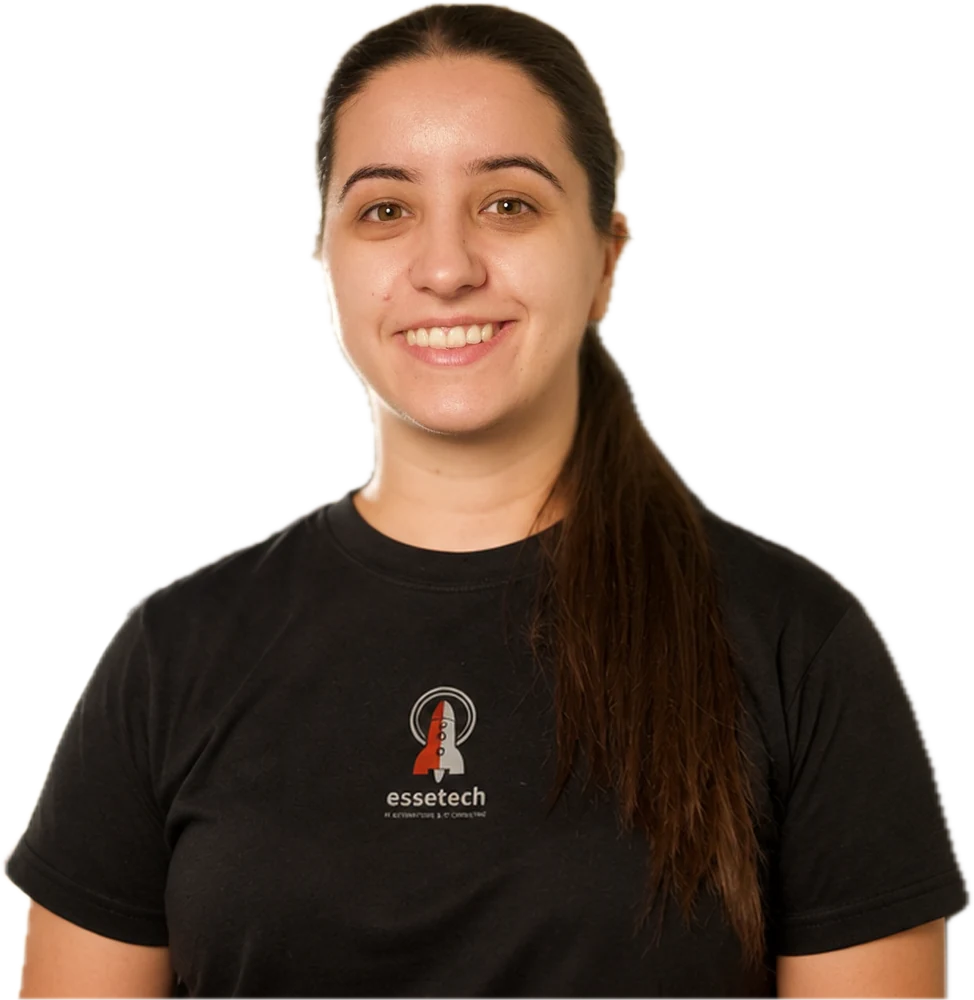
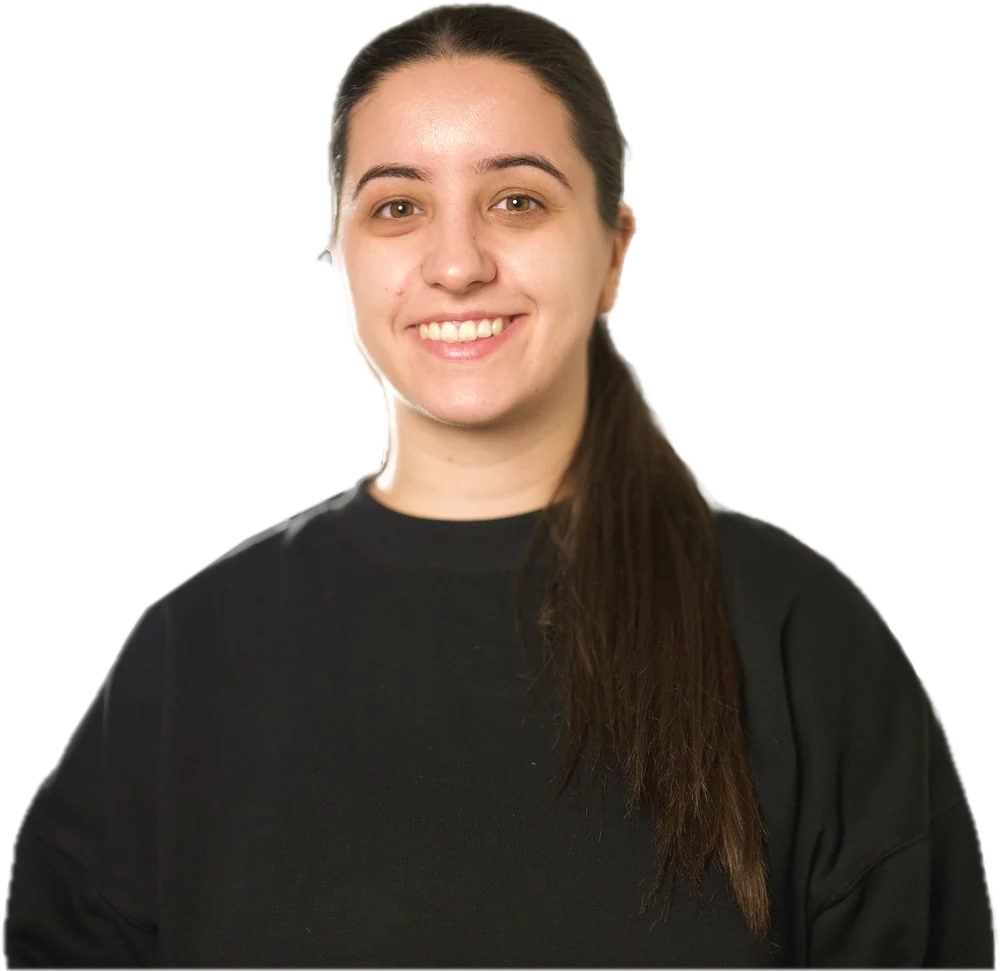
fix(hero): use Kat's real, unedited photo
The AI-edited tee shot read as fake. Swap in the real DSC01271 frame
(her own black jumper), lightly graded, with a clean cutout.

diff --git a/index.html b/index.html
@@ -737,7 +737,7 @@
 
             <div class="hd-trio">
                 <div class="hd-halo hd-layer" aria-hidden="true"></div>
-                <div class="hd-fig hd-kat hd-layer"><img src="hero-kat.webp" width="974" height="1000" alt="Kat, accounts at Essetech" decoding="async"></div>
+                <div class="hd-fig hd-kat hd-layer"><img src="hero-kat.webp" width="1000" height="971" alt="Kat, accounts at Essetech" decoding="async"></div>
                 <div class="hd-fig hd-emma hd-layer"><img src="hero-emma.webp" width="679" height="677" alt="Emma is our AI assistant &mdash; she answers enquiries, books calls, sends quotes and follows up customers around the clock; Jonathon and Kat handle the rest." decoding="async"></div>
                 <div class="hd-fig hd-jon hd-layer"><img src="hero-jonathon.webp" width="836" height="801" alt="Jonathon, founder of Essetech, in an Essetech t-shirt" fetchpriority="high" decoding="async"></div>
 
@@ -1030,7 +1030,7 @@
                         <figcaption class="tm-cap"><b>Jonathon</b><span>Founder &middot; your IT person</span><span class="tm-live"><i></i>Real reply within 1 business day</span></figcaption>
                     </figure>
                     <figure class="card card-dark tm tm-kat rv" data-view data-tilt style="--d:.12s">
-                        <div class="tm-stage"><img src="hero-kat.webp" width="974" height="1000" alt="Kat, accounts at Essetech" loading="lazy" decoding="async"></div>
+                        <div class="tm-stage"><img src="hero-kat.webp" width="1000" height="971" alt="Kat, accounts at Essetech" loading="lazy" decoding="async"></div>
                         <figcaption class="tm-cap"><b>Kat</b><span>Accounts</span><small>Invoices, payments and client accounts.</small></figcaption>
                     </figure>
                     <figure class="card card-dark tm tm-emma rv" data-view data-tilt style="--d:.24s">
